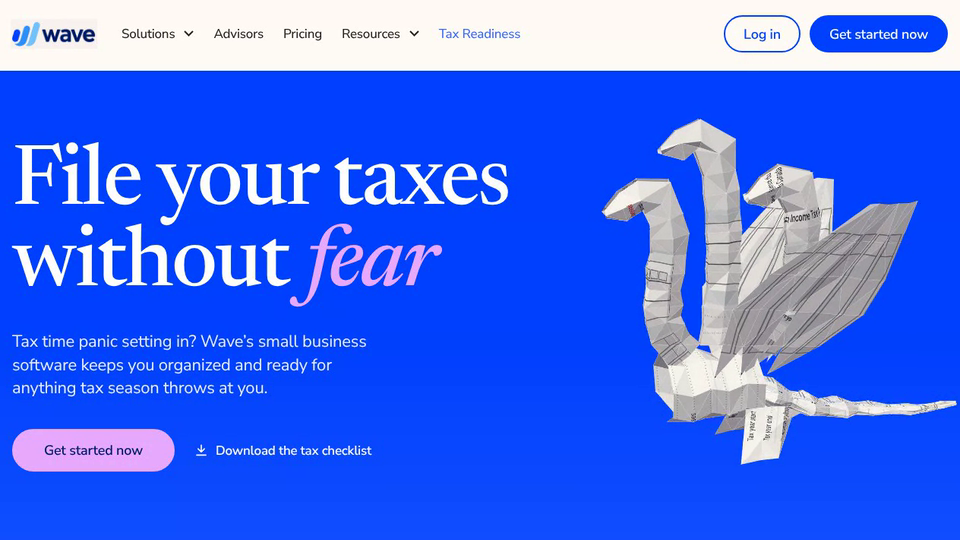
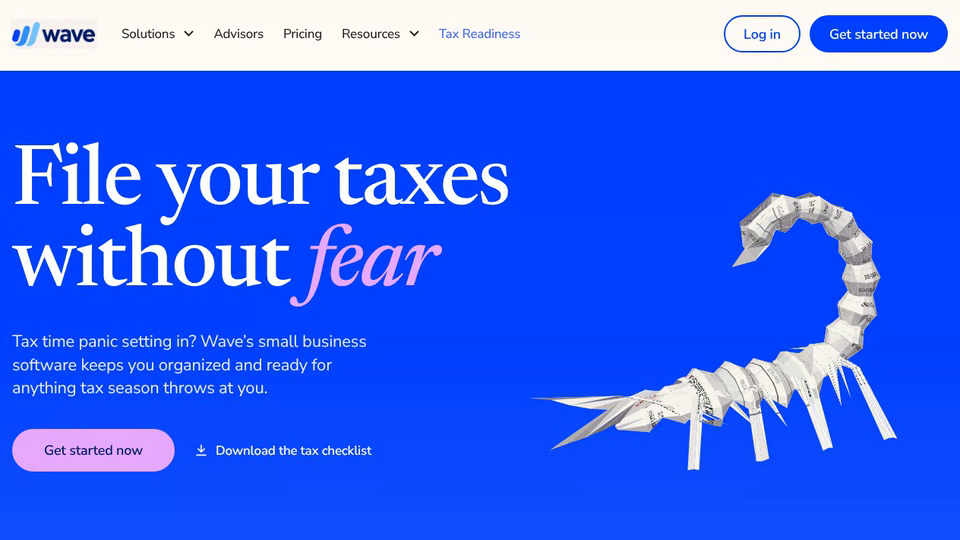
Wave File Without Fear: hero sequence scorpion, dragon, spider, cobra, each centred and sized for the hero
Claude-Session: https://claude.ai/code/session_016rpgua64Lx5cLk6vLaSVPx

Changed region(s): [[0.5625, 0.2074, 1.0, 0.8889]]

diff --git a/wave-file-without-fear/index.html b/wave-file-without-fear/index.html
@@ -944,7 +944,7 @@ Scene.prototype.draw = function (k, frame = 0) {
   if (o.center) {
     let x0 = 1e9, x1 = -1e9, y0 = 1e9, y1 = -1e9;
     for (const P of out) for (const p of P) { const q = proj(p); if (q[0] < x0) x0 = q[0]; if (q[0] > x1) x1 = q[0]; if (q[1] < y0) y0 = q[1]; if (q[1] > y1) y1 = q[1]; }
-    const dx = W * 0.5 - (x0 + x1) / 2, dy = H * (o.centerY || 0.5) - (y0 + y1) / 2, p0 = proj;
+    const ca = o.centerAmt == null ? 1 : o.centerAmt, dx = (W * (o.centerX || 0.5) - (x0 + x1) / 2) * ca, dy = (H * (o.centerY || 0.5) - (y0 + y1) / 2) * ca, p0 = proj;
     proj = (p) => { const q = p0(p); return [q[0] + dx, q[1] + dy, q[2]]; };
   }
   // shadow (off when o.shadow is falsy: no drop shadows)
@@ -1060,28 +1060,27 @@ const reduce = matchMedia('(prefers-reduced-motion: reduce)').matches;
 
 /* ---------- hero: each creature sways, unfolds, lies perfectly still while its print turns into the next CRA form, then refolds into the next creature ---------- */
 const SEQ = [
+  { c: 'scorpion', z: 0.9, f: 'PD7A', name: 'The payroll scorpion', form: 'PD7A Statement of Account for Current Source Deductions' },
   { c: 'dragon', f: 'T2', name: 'The T2 dragon', form: 'T2 Corporation Income Tax Return' },
-  { c: 'hydra', f: 'GST34', name: 'The GST/HST hydra', form: 'GST/HST Return' },
-  { c: 'scorpion', f: 'PD7A', name: 'The payroll scorpion', form: 'PD7A Statement of Account for Current Source Deductions' },
-  { c: 'spider', f: 'T5018', name: 'The T5018 spider', form: 'T5018 Summary of Contract Payments' },
+  { c: 'spider', z: 0.62, f: 'T5018', name: 'The T5018 spider', form: 'T5018 Summary of Contract Payments' },
   { c: 'snake', f: 'T2125', name: 'The T2125 cobra', form: 'Statement of Business or Professional Activities' },
 ];
 const HOLD = 1.5, DUR = 2.6, FLAT = 1.6, REFOLD = 2.6, SEG = HOLD + DUR + FLAT + REFOLD, TOTAL = SEG * SEQ.length;
 const stage = document.getElementById('stage');
 const mobile = () => innerWidth <= 820;
-const heroOpt = () => mobile() ? { cx: 0.5, cy: 0.6, fov: 1.25, zoom: 1, flatDist: 1.2 } : { cx: innerWidth < 1400 ? 0.755 : 0.74, cy: 0.58, fov: innerWidth < 1400 ? 1.2 : 1.24, zoom: 1, flatDist: 1.22 };
-const scene = new Origami.Scene(stage, Object.assign({ creature: 'dragon', form: 'T2', shadow: null, yaw: -0.42, flatYaw: 0.22 }, heroOpt()));
+const heroOpt = () => mobile() ? { cx: 0.5, cy: 0.6, fov: 1.25, flatDist: 1.2, centerX: 0.5, centerY: 0.62 } : { centerX: innerWidth < 1400 ? 0.74 : 0.72, centerY: 0.55, cx: innerWidth < 1400 ? 0.755 : 0.74, cy: 0.58, fov: innerWidth < 1400 ? 1.2 : 1.24, zoom: 1, flatDist: 1.22 };
+const scene = new Origami.Scene(stage, Object.assign({ creature: 'scorpion', form: 'PD7A', shadow: null, yaw: -0.42, flatYaw: 0.22 }, heroOpt()));
 let cur = -1, T = 0, playing = false, lastF = -1, prev = 0, loop = true, speed = 1;
 function show(t) {
   t = ((t % TOTAL) + TOTAL) % TOTAL;
   const i = Math.floor(t / SEG), lt = t - i * SEG, n = (i + 1) % SEQ.length;
   const T1 = HOLD, T2 = T1 + DUR, T3 = T2 + FLAT;
   const refold = lt >= T3, key = refold ? n + 100 : i;
-  if (key !== cur) { cur = key; const c = refold ? SEQ[n] : SEQ[i]; scene.set(c.c, c.f); scene.next(refold ? null : SEQ[n].f); stage.setAttribute('aria-label', `Paper animation: ${c.name}, folded from a CRA ${c.form}, unfolds into a flat sheet and refolds into the next creature`); }
+  if (key !== cur) { cur = key; const c = refold ? SEQ[n] : SEQ[i]; scene.set(c.c, c.f); scene.o.zoom = c.z || 1; scene.next(refold ? null : SEQ[n].f); stage.setAttribute('aria-label', `Paper animation: ${c.name}, folded from a CRA ${c.form}, unfolds into a flat sheet and refolds into the next creature`); }
   const k = lt < T1 ? 0 : lt < T2 ? (lt - T1) / DUR : lt < T3 ? 1 : 1 - (lt - T3) / REFOLD;
   scene.o.texMix = refold ? 0 : Math.max(0, Math.min(1, (lt - T2 - 0.35) / (FLAT - 0.7)));
   const fr = Math.floor(t * 30);
-  scene.draw(Math.max(0, Math.min(1, k)), fr);
+  scene.o.center = true; scene.o.centerAmt = 1 - Math.min(1, Math.max(0, k) * 1.6); scene.draw(Math.max(0, Math.min(1, k)), fr);
   lastF = fr;
 }
 function tick(now) {
